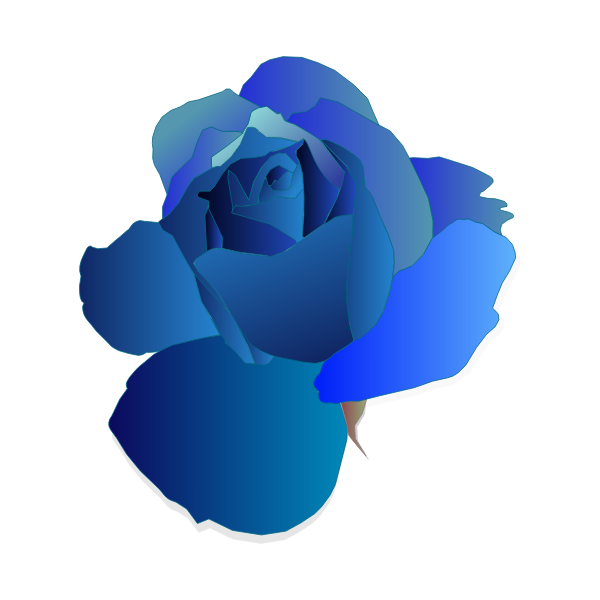
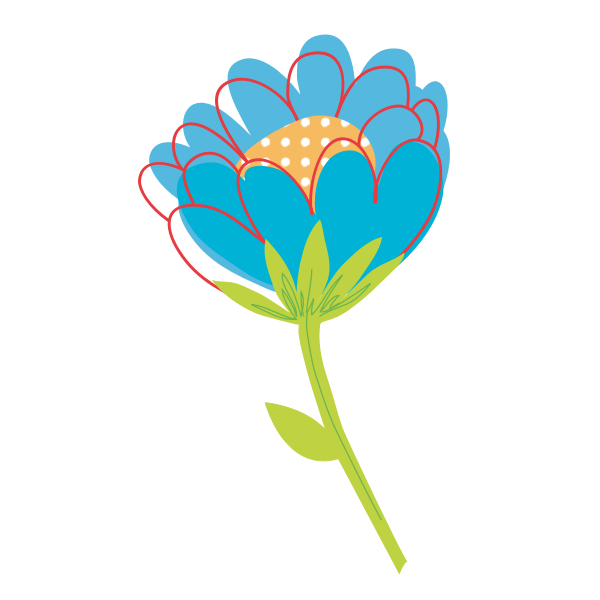
create house

diff --git a/index.html b/index.html
@@ -41,6 +41,8 @@
             loadSprite("redF", "img/red-f.png");
             loadSprite("whiteF", "img/white-f.png");
             loadSprite("yellowF", "img/yellow-f.png");
+            // house sprite
+            loadSprite("house", "img/house.png");
 
             var userName = prompt("What is your name?"); // global variable
             scene("front", () => { // front page scene
@@ -68,6 +70,11 @@
                 }
                 buttons("Start Game", vec2(400, 300), () => go("game")); // start button
                 buttons("Instructions", vec2(400, 400), () => go("instructions")); // instruction button
+                add([
+                    sprite("house"), // sprite name
+                    pos(900, 100),
+                    scale(1) // size
+                ]);
             });
 
             scene("instructions", () =>{ // instructions scene
@@ -323,6 +330,11 @@
                 colors("purple", vec2(860, 470), 190, 130, 255); // purple
                 colors("pink", vec2(860, 550), 255, 200, 230);// pink
                 colors("white", vec2(860, 630), 255, 255, 255); // white
+                add([
+                    sprite("house"), // sprite name
+                    pos(930, 100),
+                    scale(1) // size
+                ]);
             });
             go("front"); // start with two button scene
         </script>
